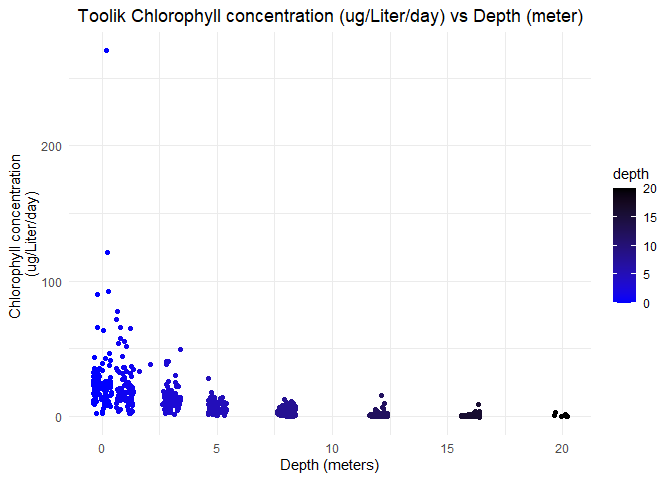
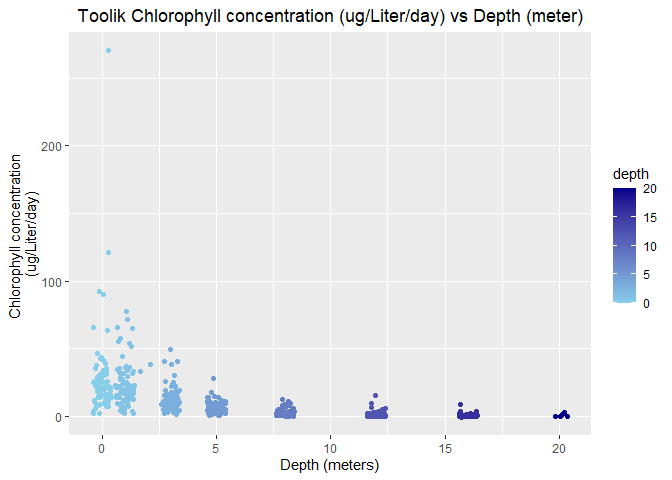
change gradient plot for water depth

diff --git a/docs/toolik_chlorophyll_summary.md b/docs/toolik_chlorophyll_summary.md
@@ -125,8 +125,7 @@ toolik_chlorophyll
 ```r
 toolik_depth_chloro_plot <- ggplot(data = toolik_chlorophyll, aes(x = depth, y = pprod_mg_available_c_m3_d)) +
   geom_jitter(aes(color = depth), show.legend = TRUE) +
-  scale_color_gradient(low = "blue", high = "black") +
-  theme_minimal()+
+  scale_color_gradient(low = "skyblue", high = "darkblue") +
   theme(plot.title = element_text(hjust = 0.5))+
   labs(title = "Toolik Chlorophyll concentration (ug/Liter/day) vs Depth (meter)",
        x = "Depth (meters)",
